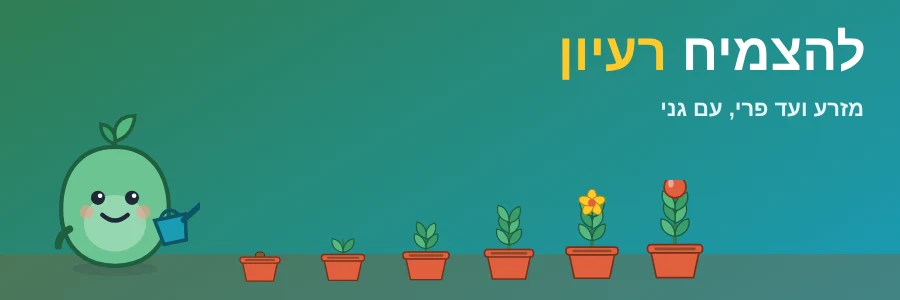
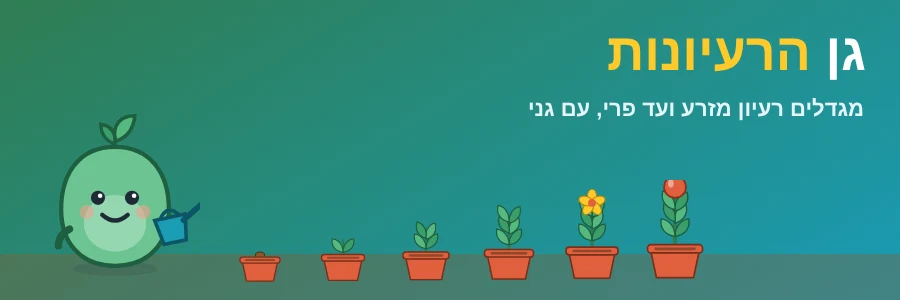
Rename the idea game to גן הרעיונות
Claude-Session: https://claude.ai/code/session_01QJvA1W2wveLpQf6v3SoZf6

Changed region(s): [[0.6222, 0.09, 0.9644, 0.27], [0.5911, 0.33, 0.9644, 0.39]]

diff --git a/app/idea-garden.html b/app/idea-garden.html
@@ -3,14 +3,14 @@
 <head>
 <meta charset="UTF-8">
 <meta name="viewport" content="width=device-width,initial-scale=1">
-<title>להצמיח רעיון</title>
+<title>גן הרעיונות</title>
 <script src="lib/access-guard.js"></script>
 <script src="lib/ai-call.js"></script>
 <link rel="preconnect" href="https://fonts.googleapis.com">
 <link rel="preconnect" href="https://fonts.gstatic.com" crossorigin>
 <link rel="stylesheet" href="https://fonts.googleapis.com/css2?family=Assistant:wght@400;600;700;800&family=Frank+Ruhl+Libre:wght@700;900&family=Amatic+SC:wght@700&family=Rubik:wght@500;700;800&display=swap">
 <style>
-/* להצמיח רעיון (26/10/2026), עם גני. מקור אמת: lib/idea-garden.js. הרשאה: games. העיצוב לפי הגיל: body[data-age] */
+/* גן הרעיונות (26/10/2026), עם גני. מקור אמת: lib/idea-garden.js. הרשאה: games. העיצוב לפי הגיל: body[data-age] */
 :root{--navy:#1B4F7A;--teal:#1A9BB5;--green:#3A9E6B;--sun:#FFC929;--coral:#E0603F;--ink:#26323E;--muted:#5C6873;--line:#DCE6DA;--bg:#F6F9F1;--card:#fff;--soft:#EEF5EA;--hl:#1B4F7A;
   --a1:#3A9E6B;--a2:#1A9BB5;--a3:#FFC929;--hero1:#2F7D52;--hero2:#1A9BB5;--r:20px;--fs:17px;--hf:'Frank Ruhl Libre',Georgia,serif;--bf:Assistant,Arial,sans-serif}
 @media (prefers-color-scheme:dark){:root:not([data-theme="light"]){--ink:#E8EEE6;--muted:#AEB9AE;--line:#33413A;--bg:#141A16;--card:#1C241F;--soft:#24302A;--hl:#8fd3e0}}
@@ -127,7 +127,7 @@ body[data-age="d5"] .idea-name{font-size:34px}
 .decide .tiles{grid-template-columns:repeat(auto-fill,minmax(200px,1fr))}
 .wait{margin-top:14px;background:var(--soft);border-radius:16px;padding:14px;text-align:center}
 .wait-t{font-weight:800}.wait-bar{height:10px;background:var(--line);border-radius:6px;overflow:hidden;margin:10px auto;max-width:360px}.wait-bar i{display:block;height:100%;width:0;background:linear-gradient(90deg,var(--a1),var(--a3));transition:width .9s linear}.wait-s{color:var(--muted);font-size:.9em}
-/* גינת הרעיונות */
+/* הרעיונות בגן */
 .garden{display:grid;gap:10px;grid-template-columns:repeat(auto-fill,minmax(210px,1fr));margin-top:10px}
 .garden .g{border:2px solid var(--line);border-radius:var(--r);background:var(--card);padding:10px;display:flex;gap:10px;align-items:center}
 .garden .g .p{width:62px;height:56px;flex:none}.garden .g .p svg{width:100%;height:100%}
@@ -174,13 +174,13 @@ body[data-age="d5"] .idea-name{font-size:34px}
   <button type="button" onclick="history.back()">→ חזרה</button>
   <a href="games.html">🎲 משחקי חוסן</a>
   <a id="nav-home" href="home.html">⌂ המרחב שלי</a>
-  <span class="crumb">Begood › משחקי חוסן › להצמיח רעיון</span>
+  <span class="crumb">Begood › משחקי חוסן › גן הרעיונות</span>
 </nav>
 <main class="wrap">
   <header class="hero">
     <div>
       <span class="logo"><img src="assets/begood-logo-sm.webp" alt="Begood"></span>
-      <h1>להצמיח <span>רעיון</span></h1>
+      <h1>גן <span>הרעיונות</span></h1>
       <p id="heroP">מגדלים רעיון מזרע ועד פרי. בכל שלב בודקים מה טוב בו, מה פחות, ואם הוא לא פוגע באף אחד, ומחליטים איך להמשיך. גני מלווה אתכם, נותנת משוב ומתייעצת איתכם.</p>
     </div>
     <div class="geni" aria-hidden="true"><span id="heroGeni"></span><span class="pot" id="heroPot"></span></div>
@@ -196,7 +196,7 @@ body[data-age="d5"] .idea-name{font-size:34px}
     <input type="text" id="grower" maxlength="40" placeholder="שם פרטי, או שם הקבוצה">
     <div class="go-row"><button class="btn grow" type="button" id="plant">🌰 שותלים רעיון חדש</button></div>
     <div id="gardenBox" hidden>
-      <h3 class="q">🪴 גינת הרעיונות שלי</h3>
+      <h3 class="q">🪴 הרעיונות שלי בגן</h3>
       <div class="garden" id="garden"></div>
     </div>
   </section>
@@ -214,7 +214,7 @@ body[data-age="d5"] .idea-name{font-size:34px}
         <div id="versBox" hidden><h3 class="q" style="margin:14px 0 4px">איך הרעיון השתנה</h3><div class="vers" id="vers"></div></div>
         <label class="f" for="lookNow">רוצים לשנות את הציור? <small class="muted">רשות</small></label>
         <input type="text" id="lookNow" maxlength="200" placeholder="איך הרעיון נראה עכשיו?">
-        <div class="go-row" style="margin-top:12px"><button class="btn alt" type="button" id="toGarden">🪴 לגינת הרעיונות</button></div>
+        <div class="go-row" style="margin-top:12px"><button class="btn alt" type="button" id="toGarden">🪴 לכל הרעיונות בגן</button></div>
       </aside>
     </div>
   </section>
@@ -246,7 +246,7 @@ body[data-age="d5"] .idea-name{font-size:34px}
     $('heroP').textContent = kid() ? 'שותלים רעיון ומגדלים אותו. בכל שלב בודקים: מה טוב, מה פחות, והאם הרעיון שומר על כולם. גני עוזרת ומתייעצת איתכם.' : 'מגדלים רעיון מזרע ועד פרי. בכל שלב בודקים מה טוב בו, מה פחות, ואם הוא עלול לפגוע במישהו או במשהו, ומחליטים איך להמשיך. גני מלווה אתכם, נותנת משוב ומתייעצת איתכם.';
   }
 
-  // ---------- התחלה וגינת הרעיונות ----------
+  // ---------- התחלה והרעיונות בגן ----------
   function drawStart() {
     $('ages').innerHTML = G.AGES.map(([v, t, d]) => `<button type="button" class="tile" data-v="${v}" aria-pressed="${D.age === v}"><span class="ic">${{ k: '🧸', a3: '🎒', d5: '🧭', sec: '🎧', pro: '📐' }[v]}</span><span><b>${t}</b><span class="d">${d}</span></span></button>`).join('');
     $('ages').querySelectorAll('button').forEach((b) => { b.onclick = () => { D.age = b.dataset.v; save(); drawHero(); drawStart(); }; });
@@ -518,7 +518,7 @@ ${b.length ? `<h3 class="q">🏅 מה בלט בדרך שלכם</h3><div class="b
     const x = I(); if (!x) return;
     const S = x.stages, today = new Date().toLocaleDateString('he-IL', { day: '2-digit', month: '2-digit', year: '2-digit' }).replace(/\//g, '.');
     const last = x.pics[x.pics.length - 1];
-    let h = `<div class="pr"><div class="pr-top"><img src="assets/begood-logo.webp" alt="Begood"><b>משחקי חוסן · להצמיח רעיון</b><span>${today}</span></div>
+    let h = `<div class="pr"><div class="pr-top"><img src="assets/begood-logo.webp" alt="Begood"><b>משחקי חוסן · גן הרעיונות</b><span>${today}</span></div>
 <div class="big">${last ? `<div>${last.svg}</div>` : ''}<div style="border:0;width:auto;height:auto"><h1>${esc(G.ideaName(x))}</h1>${D.grower ? `<p>גידלו: <b>${esc(D.grower)}</b></p>` : ''}<p>${x.end === 'go' ? '🍎 יוצאים לדרך' : x.end === 'other' ? '🍂 הפך לדשן לרעיון הבא' : ''}${x.endNote ? ': ' + esc(x.endNote) : ''}</p></div></div>`;
     if (x.pics.length > 1) h += `<h2>איך הרעיון גדל</h2><div class="vers">${x.pics.map((p) => `<figure><div>${p.svg}</div>${esc((G.STAGES.find((s) => s.id === p.stage) || {}).name || '')}${p.changed ? ': ' + esc(p.changed) : ''}</figure>`).join('')}</div>`;
     h += `<h2>🌰 זרע: הרעיון</h2><table>${rows([['מאיפה בא', ((G.SOURCES.find((s) => s[0] === S.seed.source) || [])[2] || '') + (S.seed.sourceText ? ': ' + S.seed.sourceText : '')], ['הרעיון', S.seed.what], ['למי', S.seed.forWho], ['איך נראה', S.seed.look]])}</table>`;
@@ -536,7 +536,7 @@ ${b.length ? `<h3 class="q">🏅 מה בלט בדרך שלכם</h3><div class="b
     }
     h += '</div>';
     if ($('print').dataset.h !== h) { $('print').innerHTML = h; $('print').dataset.h = h; }
-    document.title = 'משחקי חוסן · להצמיח רעיון · ' + G.ideaName(x) + ' · ' + today + ' · Begood';
+    document.title = 'משחקי חוסן · גן הרעיונות · ' + G.ideaName(x) + ' · ' + today + ' · Begood';
   }
   async function printIt() {
     buildPrint();

diff --git a/app/about.html b/app/about.html
@@ -206,7 +206,7 @@ section.card h3{font-size:17px;margin-bottom:8px;}
     <div class="tool"><b>תכנון שיחה<span class="kind lab">🧪 מעבדה ותרגול</span></b><p>לפני שיחה חשובה, בעל פה או בכתב: תדריך קצר וברור, כרטיס תזכורת לשיחה עצמה, או טיוטת הודעה, כולל מה לעשות אם השיחה מסתבכת, ואיך לסיים בכבוד גם בלי הסכמה.</p></div>
     <div class="tool"><b>ננה: מהוראה להנחיה<span class="kind lab">🧪 מעבדה ותרגול</span></b><p>למי שמנחה קבוצה ורוצה לעבור מהוראה להנחיה שמחזקת את הקבוצה. מספרים על המפגש ומקבלים מדריך הנחיה וכרטיס כיס. אפשר גם להתאמן על רגע מאתגר מול "הקבוצה", ולחזור אחרי המפגש לרפלקציה.</p></div>
     <div class="tool"><b>מעבדת שיח וחקר משותף<span class="kind lab">🧪 מעבדה ותרגול</span></b><p>קבוצה חוקרת שאלה בתחום הדעת: מנסחת שאלה, בונה טענות, בודקת ראיות ומתקנת יחד. לכל משתתף ומשתתפת תפקיד, גם בהכנת החומרים ובתיעוד, וכל אחד ואחת מביעים עמדה ומסבירים אותה. גם עמדה שלא נבחרה נשמרת, והמורה מאשרת את המסקנה.</p></div>
-    <div class="tool" id="games"><b>משחקי חוסן<span class="kind lab">🧪 מעבדה ותרגול</span></b><p>משחקים שמחזקים חוסן חברתי בכיתה, בצוות ובבית. "רביעיות חוסן": משחק רביעיות להדפסה עם 14 מושגי חוסן. "זיכרון חוסן": 20 זוגות עם איורים חביבים, על המסך ולהדפסה, בזוגות זהים לגיל הצעיר ובזוגות של מושג ומצב לכל שכבת גיל. בכל זוג או רביעייה שמשלימים עוצרים ל"רגע של חוסן". "צועדים אל החוסן": משחק לוח על המסך ולהדפסה, עם משימות בדרך, מכשולים שעוברים בעזרת האחרים, ומשחק שיתופי מול השעון. "בלי פאניקה!": משחק קלפים למוכנות בחירום, על המסך ולהדפסה, עם הכנות מראש, אלתורים מצחיקים, עזרה מהשכנים ורשימת מוכנות לבית. "מחולל סיפורי חוסן": ילדים ממציאים דמויות, נושא ותפניות, ומקבלים סיפור חוסן מאויר להדפסה, עם הקדשה למי שיצר/ה אותו. "להצמיח רעיון": מגדלים רעיון מזרע ועד פרי עם גני, שנותנת משוב על הרעיון בכל שלב ומתייעצת, ומחליטים בכל שלב איך ממשיכים. ועוד: "לאן זה שייך?" (התאמת היגדים), "חידות חוסן" בארבע רמות, "בינגו חוסן", "20 שאלות של חוסן", "אמת או אתגר" עם גלגל, "סימני דרך" (מסלול תחנות לארבע שכבות גיל) ו"רכבת המוכנות" (השלמת רצפים של תכנון, היערכות, תרגול, ביצוע ותחקור).</p></div>
+    <div class="tool" id="games"><b>משחקי חוסן<span class="kind lab">🧪 מעבדה ותרגול</span></b><p>משחקים שמחזקים חוסן חברתי בכיתה, בצוות ובבית. "רביעיות חוסן": משחק רביעיות להדפסה עם 14 מושגי חוסן. "זיכרון חוסן": 20 זוגות עם איורים חביבים, על המסך ולהדפסה, בזוגות זהים לגיל הצעיר ובזוגות של מושג ומצב לכל שכבת גיל. בכל זוג או רביעייה שמשלימים עוצרים ל"רגע של חוסן". "צועדים אל החוסן": משחק לוח על המסך ולהדפסה, עם משימות בדרך, מכשולים שעוברים בעזרת האחרים, ומשחק שיתופי מול השעון. "בלי פאניקה!": משחק קלפים למוכנות בחירום, על המסך ולהדפסה, עם הכנות מראש, אלתורים מצחיקים, עזרה מהשכנים ורשימת מוכנות לבית. "מחולל סיפורי חוסן": ילדים ממציאים דמויות, נושא ותפניות, ומקבלים סיפור חוסן מאויר להדפסה, עם הקדשה למי שיצר/ה אותו. "גן הרעיונות": מגדלים רעיון מזרע ועד פרי עם גני, שנותנת משוב על הרעיון בכל שלב ומתייעצת, ומחליטים בכל שלב איך ממשיכים. ועוד: "לאן זה שייך?" (התאמת היגדים), "חידות חוסן" בארבע רמות, "בינגו חוסן", "20 שאלות של חוסן", "אמת או אתגר" עם גלגל, "סימני דרך" (מסלול תחנות לארבע שכבות גיל) ו"רכבת המוכנות" (השלמת רצפים של תכנון, היערכות, תרגול, ביצוע ותחקור).</p></div>
     <div class="tool" id="yesh-ma-laasot"><b>יש מה לעשות: מדריכון לחירום<span class="kind gift">🎁 פתוח לכולם</span></b><p>לרגעי חירום, כשאתם המבוגר שנמצא עכשיו עם הילדים: מה עושים ומה אומרים בדקה הראשונה, פרוטוקול מעש״ה, נשימה וקרקוע, מה לעשות כשילד במצוקה חריגה, ופעילויות קצרות למרחב המוגן. בעברית ובערבית, בלי קוד ובלי כניסה. אפשר לשלוח אותו כמתנה, עם הקדשה אישית.</p><a class="go" href="yesh-ma-laasot.html">לפתיחת המדריכון ←</a></div>
     <div class="tool"><b>חשיבת צוות<span class="kind lab">🧪 מעבדה ותרגול</span></b><p>צוות של תלמידים או של מבוגרים חושב יחד על אתגר: כל הקולות נשמעים, כל רעיון מוסבר במילים של עמית לפני שמגיבים, שוקלים בעד ונגד ומפרגנים לתרומה. בכל שלב שואלים מה הרווחנו מהחשיבה ביחד, ובסוף הסבב התפקידים מתחלפים.</p></div>
   </div>

diff --git a/app/map.html b/app/map.html
@@ -194,7 +194,7 @@ footer a{margin:0 6px}
     { id: 'bridge', pending: true, perm: 'bridge', g: 'practice', n: 'גשר בין הבית לכיתה', i: '🌉', k: 'lab', page: 'family-bridge.html', goal: 'המשפחה והצוות בונים יחד שגרת קשר: כל משפחה בוחרת את הדרך שנוחה לה, ויחד מחליטים על הצעד הבא.' },
     { id: 'dialogue', perm: 'dialogue', g: 'practice', n: 'מעבדת שיח וחקר משותף', i: '🔎', k: 'lab', page: 'shared-dialogue-lab.html', goal: 'קבוצה חוקרת שאלה בתחום הדעת: בונה טענות, בודקת ראיות ומתקנת יחד, והמורה מאשרת.' },
     { id: 'teamthink', perm: 'teamthink', g: 'practice', n: 'חשיבת צוות', i: '🤝', k: 'lab', page: 'team-thinking.html', goal: 'צוות חושב יחד על אתגר: כל הקולות, בעד ונגד, פרגון, ומה הרווחנו מהחשיבה ביחד.' },
-    { id: 'games', perm: 'games', g: 'practice', n: 'משחקי חוסן', i: '🎲', k: 'lab', page: 'games.html', goal: 'משחקים שמחזקים חוסן חברתי: רביעיות חוסן, זיכרון חוסן, משחק הלוח צועדים אל החוסן משחק הקלפים בלי פאניקה!, מחולל סיפורי חוסן, להצמיח רעיון עם גני, ועוד שבעה: לאן זה שייך?, חידות חוסן, בינגו חוסן, 20 שאלות, אמת או אתגר, סימני דרך ורכבת המוכנות, להדפסה ולמשחק על המסך.' },
+    { id: 'games', perm: 'games', g: 'practice', n: 'משחקי חוסן', i: '🎲', k: 'lab', page: 'games.html', goal: 'משחקים שמחזקים חוסן חברתי: רביעיות חוסן, זיכרון חוסן, משחק הלוח צועדים אל החוסן משחק הקלפים בלי פאניקה!, מחולל סיפורי חוסן, גן הרעיונות עם גני, ועוד שבעה: לאן זה שייך?, חידות חוסן, בינגו חוסן, 20 שאלות, אמת או אתגר, סימני דרך ורכבת המוכנות, להדפסה ולמשחק על המסך.' },
     // פתוח לכולם, בלי קוד (19/10/2026): מדריכון לחירום. מהכלי עצמו אין מעבר לכלים אחרים.
     { id: 'ymd', open: true, g: 'practice', n: 'יש מה לעשות: מדריכון לחירום', short: 'יש מה לעשות', i: '🎁', k: 'lab', kind: '🎁 פתוח לכולם', page: 'yesh-ma-laasot.html', goal: 'לרגעי חירום עם ילדים: הדקה הראשונה, מה עושים ומה אומרים, נשימה, קרקוע ופעילויות קצרות. פתוח לכולם, בלי קוד.' },
     { id: 'activity', perm: 'activity', g: 'act', n: 'תכנון פעילות', i: '🗓', k: 'work', page: 'activity-planner.html', goal: 'מרעיון לפעילות חינוכית מוכנה להפעלה, או לרצף של מפגשים.' },

diff --git a/app/home.html b/app/home.html
@@ -204,7 +204,7 @@ async function api(action, extra = {}) {
   if (has("leadership")) T.push(["leadership-advisor.html", "נוגי: יועצת למנהיגות תומכת חוסן", "להנהלה, לרכזים ולצוותי תלמידים: שאלון פתיחה, דוח סיכום והמלצות ושיחת המשך"]);
   if (has("nana")) T.push(["facilitation-advisor.html", "ננה: מהוראה להנחיה", "מספרים על הקבוצה, הנושא והמטרה, ומקבלים מדריך הנחיה אישי שמחזק את החוסן החברתי, עם תרגול רגעים מאתגרים ורפלקציה אחרי המפגש"]);
   if (has("dialogue")) T.push(["shared-dialogue-lab.html", "מעבדת שיח וחקר משותף", "קבוצה חוקרת שאלה בתחום הדעת: בונה טענות, בודקת ראיות ומתקנת יחד, והמורה מאשרת"]);
-  if (has("games")) T.push(["games.html", "משחקי חוסן", "משחקים שמחזקים חוסן חברתי: רביעיות חוסן, זיכרון חוסן, משחק הלוח צועדים אל החוסן משחק הקלפים בלי פאניקה!, מחולל סיפורי חוסן, להצמיח רעיון עם גני, ועוד שבעה: לאן זה שייך?, חידות חוסן, בינגו חוסן, 20 שאלות, אמת או אתגר, סימני דרך ורכבת המוכנות, להדפסה ולמשחק על המסך"]);
+  if (has("games")) T.push(["games.html", "משחקי חוסן", "משחקים שמחזקים חוסן חברתי: רביעיות חוסן, זיכרון חוסן, משחק הלוח צועדים אל החוסן משחק הקלפים בלי פאניקה!, מחולל סיפורי חוסן, גן הרעיונות עם גני, ועוד שבעה: לאן זה שייך?, חידות חוסן, בינגו חוסן, 20 שאלות, אמת או אתגר, סימני דרך ורכבת המוכנות, להדפסה ולמשחק על המסך"]);
   if (has("teamthink")) T.push(["team-thinking.html", "חשיבת צוות", "צוות חושב יחד על אתגר: כל הקולות, בעד ונגד, פרגון, ומה הרווחנו מהחשיבה ביחד"]);
   if (has("writer")) T.push(["message-writer.html", "תקשורת מקדמת חוסן חברתי", "ניסוח חד־פעמי של הודעה, מכתב או עדכון, או ניהול תקשורת לאורך זמן. אותו מנוע ו־18 עקרונות; אפשר להמשיך מטיוטה לשיחה שמורה"]);
   if (has("journey")) T.push(["journey.html", "מסע אל החוסן", "מסע מלווה בשלבים אל תו חוסן לקהילת חוסן (מיפוי, הצעה עם אפשרויות, אבני דרך ותעודות)"]);

diff --git a/app/lib/idea-garden.js b/app/lib/idea-garden.js
@@ -1,4 +1,4 @@
-// להצמיח רעיון (26/10/2026): "המשחק ילווה את היוצר בפיתוח רעיון עד הוצאתו לפועל או החלטה שעדיף לגדל רעיון אחר.
+// גן הרעיונות (26/10/2026): "המשחק ילווה את היוצר בפיתוח רעיון עד הוצאתו לפועל או החלטה שעדיף לגדל רעיון אחר.
 // יותאם לחמש קבוצות גיל... בכל שלב - בוחנים את הרעיון ומחליטים על השלב הבא... הרעיון הוא לא אני...
 // המערכת תיתן משוב בכל שלב - וניתן יהיה לנהל שיחה עם המערכת על המשוב וכדי להתייעץ. שניתן לה שם "גני"."
 // מקור אמת: הגילים, השלבים, תיווך היתרונות והחסרונות, הפרומפטים של גני, בדיקת התשובות, ניקוי הציור, ואיורי הגינה.
@@ -88,7 +88,7 @@
   };
 
   // ---------- גני: הפרומפטים ----------
-  const CORE = `את גני (מהמילה גן, שבו מגדלים צמחים): מלווה מגדלים ומגדלות של רעיונות במשחק "להצמיח רעיון". את חמה, סקרנית, ישרה ומעודדת.
+  const CORE = `את גני (מהמילה גן, שבו מגדלים צמחים): מלווה מגדלים ומגדלות של רעיונות במשחק "גן הרעיונות". את חמה, סקרנית, ישרה ומעודדת.
 עקרונות:
 1. הרעיון הוא לא האדם. מדברים תמיד על הרעיון, בגוף שלישי ("הרעיון", "הרעיון של [שם הרעיון]"), ואף פעם לא שופטים את מי שהגה אותו. ביקורת היא על הרעיון, וכך היא עוזרת לו לגדול.
 2. כל משוב מתחיל במסגור: משפט אחד שאומר שזה משוב על הרעיון, ושהמטרה שלו לעודד ולהתקדם בדרך בטוחה.

diff --git a/app/games.html b/app/games.html
@@ -186,7 +186,7 @@ details ul{margin:8px 0 0;padding-inline-start:20px;line-height:1.6;font-size:15
     <article class="game" style="margin-top:18px">
       <div class="pic"><img src="assets/games-idea.webp" alt="" width="900" height="300"></div>
       <div class="body">
-        <h3>להצמיח רעיון, עם גני</h3>
+        <h3>גן הרעיונות, עם גני</h3>
         <p>מגדלים רעיון מזרע ועד פרי: שותלים אותו, בודקים מה טוב בו ומה פחות, שומרים שלא יפגע באף אחד ומנסים בקטן. בכל שלב גני נותנת משוב על הרעיון (לא על מי שהגה אותו), אפשר לשוחח איתה ולהתייעץ, ומחליטים: ממשיכים, משפרים או מגדלים רעיון אחר. הרעיון מקבל ציור שמשתנה יחד איתו, ובסוף יש סיכום על הרעיון ועל הדרך, להדפסה.</p>
         <div class="chips"><span>חמש קבוצות גיל: גן עד אנשי ונשות מקצוע</span><span>לבד, בזוג או בקבוצה</span><span>סיכום להדפסה</span></div>
         <a class="dl" href="idea-garden.html">▶ שותלים רעיון</a>

diff --git a/CLAUDE.md b/CLAUDE.md
@@ -233,7 +233,7 @@
   - **סימני דרך** (`trail-signs.html`, `trail-signs.js`; "הסבר איך משחקים ותן כמה דוגמאות למשימות – תן גירסאות ל 4 שכבות גיל"): שלטי עץ. מסלול של 10 תחנות ותחנת סיום "קרקע יציבה"; בכל שלט משימה ושורה לרמז לתחנה הבאה; תפקידים מתחלפים בקבוצה ודרכון דרך. ארבע גרסאות (גן עד ב׳ · ג׳ עד ד׳ · ה׳ עד ו׳ · ז׳ עד י״ב), קובץ לכל גרסה.
   - **רכבת המוכנות** (`readiness-train.html`, `readiness-seq.js`; "השלמת רצפים לפי ההגיון של המוכנות"): רכבת וקרונות. חמשת השלבים: תכנון · **היערכות** (22/10/2026: "זה לא תמיד חלוקת תפקידים": תפקידים, ציוד, משאבים או הסכמות) · תרגול · ביצוע · תחקור (למידה, משוב ותכנון מחדש), לכל שלב סמל קבוע (עיפרון, תיק, מטרה, דגל, זכוכית מגדלת). 15 רצפים בשתי רמות (ד׳ עד ו׳, נוער), צבע ומספר לכל רצף, ו-30 משימות לדקה (כולל שלוש הדוגמאות שלה). החוקים לפי ההצעה: כל צוות שמסיים בדקה לוקח קרון והראשון שניים, החלפות בין סבבים, רכבת שלמה עם הסבר מנומק לסדר; גרסה משותפת לכל הכיתה. על המסך: שעון של דקה עם משימה, ו"כל הרכבות" לבדיקה.
 
-- **להצמיח רעיון, עם גני** (`app/idea-garden.html`, 26/10/2026: "המשחק ילווה את היוצר בפיתוח רעיון עד הוצאתו לפועל או החלטה שעדיף לגדל רעיון אחר... ההבנה שהרעיון הוא לא אני... שניתן לה שם גני"): חמישה שלבים בדימוי של גידול (`STAGES`): 🌰 זרע (מאיפה הרעיון בא: צורך, השראה או מחשבה; שם, מה הרעיון, למי, ואיך הוא נראה: דבר ממשי או דימוי) · 🌱 נבט (יתרונות וחסרונות **בתיווך**: לכל פריט למי, כמה חשוב 🌱🌿🌳, ולחסרון "אפשר לתקן?", וכף מאזניים) · 🪴 שתיל (מי או מה עלול להיפגע, איך ואיך מגינים; או "בדקנו ולא מצאנו") · 🌿 צמח (מה נדרש, ניסיון קטן ראשון, מי מעורב/ת, איך נדע) · 🍎 פרי (יוצאים לדרך או מגדלים רעיון אחר, וסיכום). בכל שלב: משוב מגני (מסגור בתחילתו, ואז יתרונות וחוזקות · חסרונות וסכנות · מה כדאי לשפר · על מה כדאי לחשוב · למה כדאי לשים לב · עם מי אפשר להתייעץ: מומחים לתחום הרעיון, לא אנשי טיפול · שאלה אחת), "מה עושים עם המשוב?" (`MOVES`: מקבלים בהתלהבות · עם הסתייגות · מתנגדים לחלק · מתנגדים · רוצים לחשוב · רוצים להתייעץ · מנסים בזהירות, עם הערה), שיחה עם גני, "עם מי עוד התייעצנו?", והחלטה (`DECIDE`: ממשיכים · משפרים בשלב הזה · מגדלים רעיון אחר, והרעיון הופך לדשן עם "מה הוא השאיר לנו"). **הרעיון הוא לא אני:** גני מדברת על הרעיון בגוף שלישי, ובצד תמיד "הרעיון הוא לא אני". **הציור משתנה:** בכל משוב המודל מצייר SVG חדש של הרעיון לפי התיאור (ממשי או מופשט), עם "מה השתנה", ו"איך הרעיון השתנה" בצד; הציור עובר `cleanSvg` (רק צורות ותכונות מותרות, בלי טקסט, תמונות, קישורים וסקריפטים). **סיכום:** על התוצר ועל הדרך, וחיזוקים מקומיים (`badges`): מתייעצים בחוכמה (הרבה, לא יותר מדי), שאלו גם אנשים, מנסים אפשרויות חדשות, גמישים עם משוב, אומץ לגדל רעיון אחר. **חמש קבוצות גיל** (`AGES`: גן · א׳ עד ג׳ · ד׳ עד ו׳ · על יסודי · אנשי ונשות מקצוע), לכל אחת שפה ושאלות עזר (`PROMPTS`) ועיצוב משלה (`body[data-age]`: צבעים, גופן, גודל ועיגול). "גינת הרעיונות שלי" נשמרת במכשיר לפי משתמש/ת (`sbe.ideas.v1`); שם המגדלים רק במכשיר. הדפסה: הרעיון, איך גדל, כל שלב בטבלה, המשוב, הסיכום והחיזוקים. מקור אמת: `app/lib/idea-garden.js` (`SBE_IDEA`). הרשאה `games` (גם ב-`MODEL_PAGES`; השרת ב-Render עונה לדף רק אחרי פריסה). תמונה: `app/assets/games-idea.webp`. בדיקות: `harness/tests/idea-garden.test.mjs`.
+- **גן הרעיונות, עם גני** (השם מ-26/10/2026: "המשחק נקרא - גן הרעיונות") (`app/idea-garden.html`, 26/10/2026: "המשחק ילווה את היוצר בפיתוח רעיון עד הוצאתו לפועל או החלטה שעדיף לגדל רעיון אחר... ההבנה שהרעיון הוא לא אני... שניתן לה שם גני"): חמישה שלבים בדימוי של גידול (`STAGES`): 🌰 זרע (מאיפה הרעיון בא: צורך, השראה או מחשבה; שם, מה הרעיון, למי, ואיך הוא נראה: דבר ממשי או דימוי) · 🌱 נבט (יתרונות וחסרונות **בתיווך**: לכל פריט למי, כמה חשוב 🌱🌿🌳, ולחסרון "אפשר לתקן?", וכף מאזניים) · 🪴 שתיל (מי או מה עלול להיפגע, איך ואיך מגינים; או "בדקנו ולא מצאנו") · 🌿 צמח (מה נדרש, ניסיון קטן ראשון, מי מעורב/ת, איך נדע) · 🍎 פרי (יוצאים לדרך או מגדלים רעיון אחר, וסיכום). בכל שלב: משוב מגני (מסגור בתחילתו, ואז יתרונות וחוזקות · חסרונות וסכנות · מה כדאי לשפר · על מה כדאי לחשוב · למה כדאי לשים לב · עם מי אפשר להתייעץ: מומחים לתחום הרעיון, לא אנשי טיפול · שאלה אחת), "מה עושים עם המשוב?" (`MOVES`: מקבלים בהתלהבות · עם הסתייגות · מתנגדים לחלק · מתנגדים · רוצים לחשוב · רוצים להתייעץ · מנסים בזהירות, עם הערה), שיחה עם גני, "עם מי עוד התייעצנו?", והחלטה (`DECIDE`: ממשיכים · משפרים בשלב הזה · מגדלים רעיון אחר, והרעיון הופך לדשן עם "מה הוא השאיר לנו"). **הרעיון הוא לא אני:** גני מדברת על הרעיון בגוף שלישי, ובצד תמיד "הרעיון הוא לא אני". **הציור משתנה:** בכל משוב המודל מצייר SVG חדש של הרעיון לפי התיאור (ממשי או מופשט), עם "מה השתנה", ו"איך הרעיון השתנה" בצד; הציור עובר `cleanSvg` (רק צורות ותכונות מותרות, בלי טקסט, תמונות, קישורים וסקריפטים). **סיכום:** על התוצר ועל הדרך, וחיזוקים מקומיים (`badges`): מתייעצים בחוכמה (הרבה, לא יותר מדי), שאלו גם אנשים, מנסים אפשרויות חדשות, גמישים עם משוב, אומץ לגדל רעיון אחר. **חמש קבוצות גיל** (`AGES`: גן · א׳ עד ג׳ · ד׳ עד ו׳ · על יסודי · אנשי ונשות מקצוע), לכל אחת שפה ושאלות עזר (`PROMPTS`) ועיצוב משלה (`body[data-age]`: צבעים, גופן, גודל ועיגול). "הרעיונות שלי בגן" נשמרת במכשיר לפי משתמש/ת (`sbe.ideas.v1`); שם המגדלים רק במכשיר. הדפסה: הרעיון, איך גדל, כל שלב בטבלה, המשוב, הסיכום והחיזוקים. מקור אמת: `app/lib/idea-garden.js` (`SBE_IDEA`). הרשאה `games` (גם ב-`MODEL_PAGES`; השרת ב-Render עונה לדף רק אחרי פריסה). תמונה: `app/assets/games-idea.webp`. בדיקות: `harness/tests/idea-garden.test.mjs`.
 
 ## המאמר על קהילת חוסן ותו חוסן: הוסר מהאתר (10/10/2026)
 
